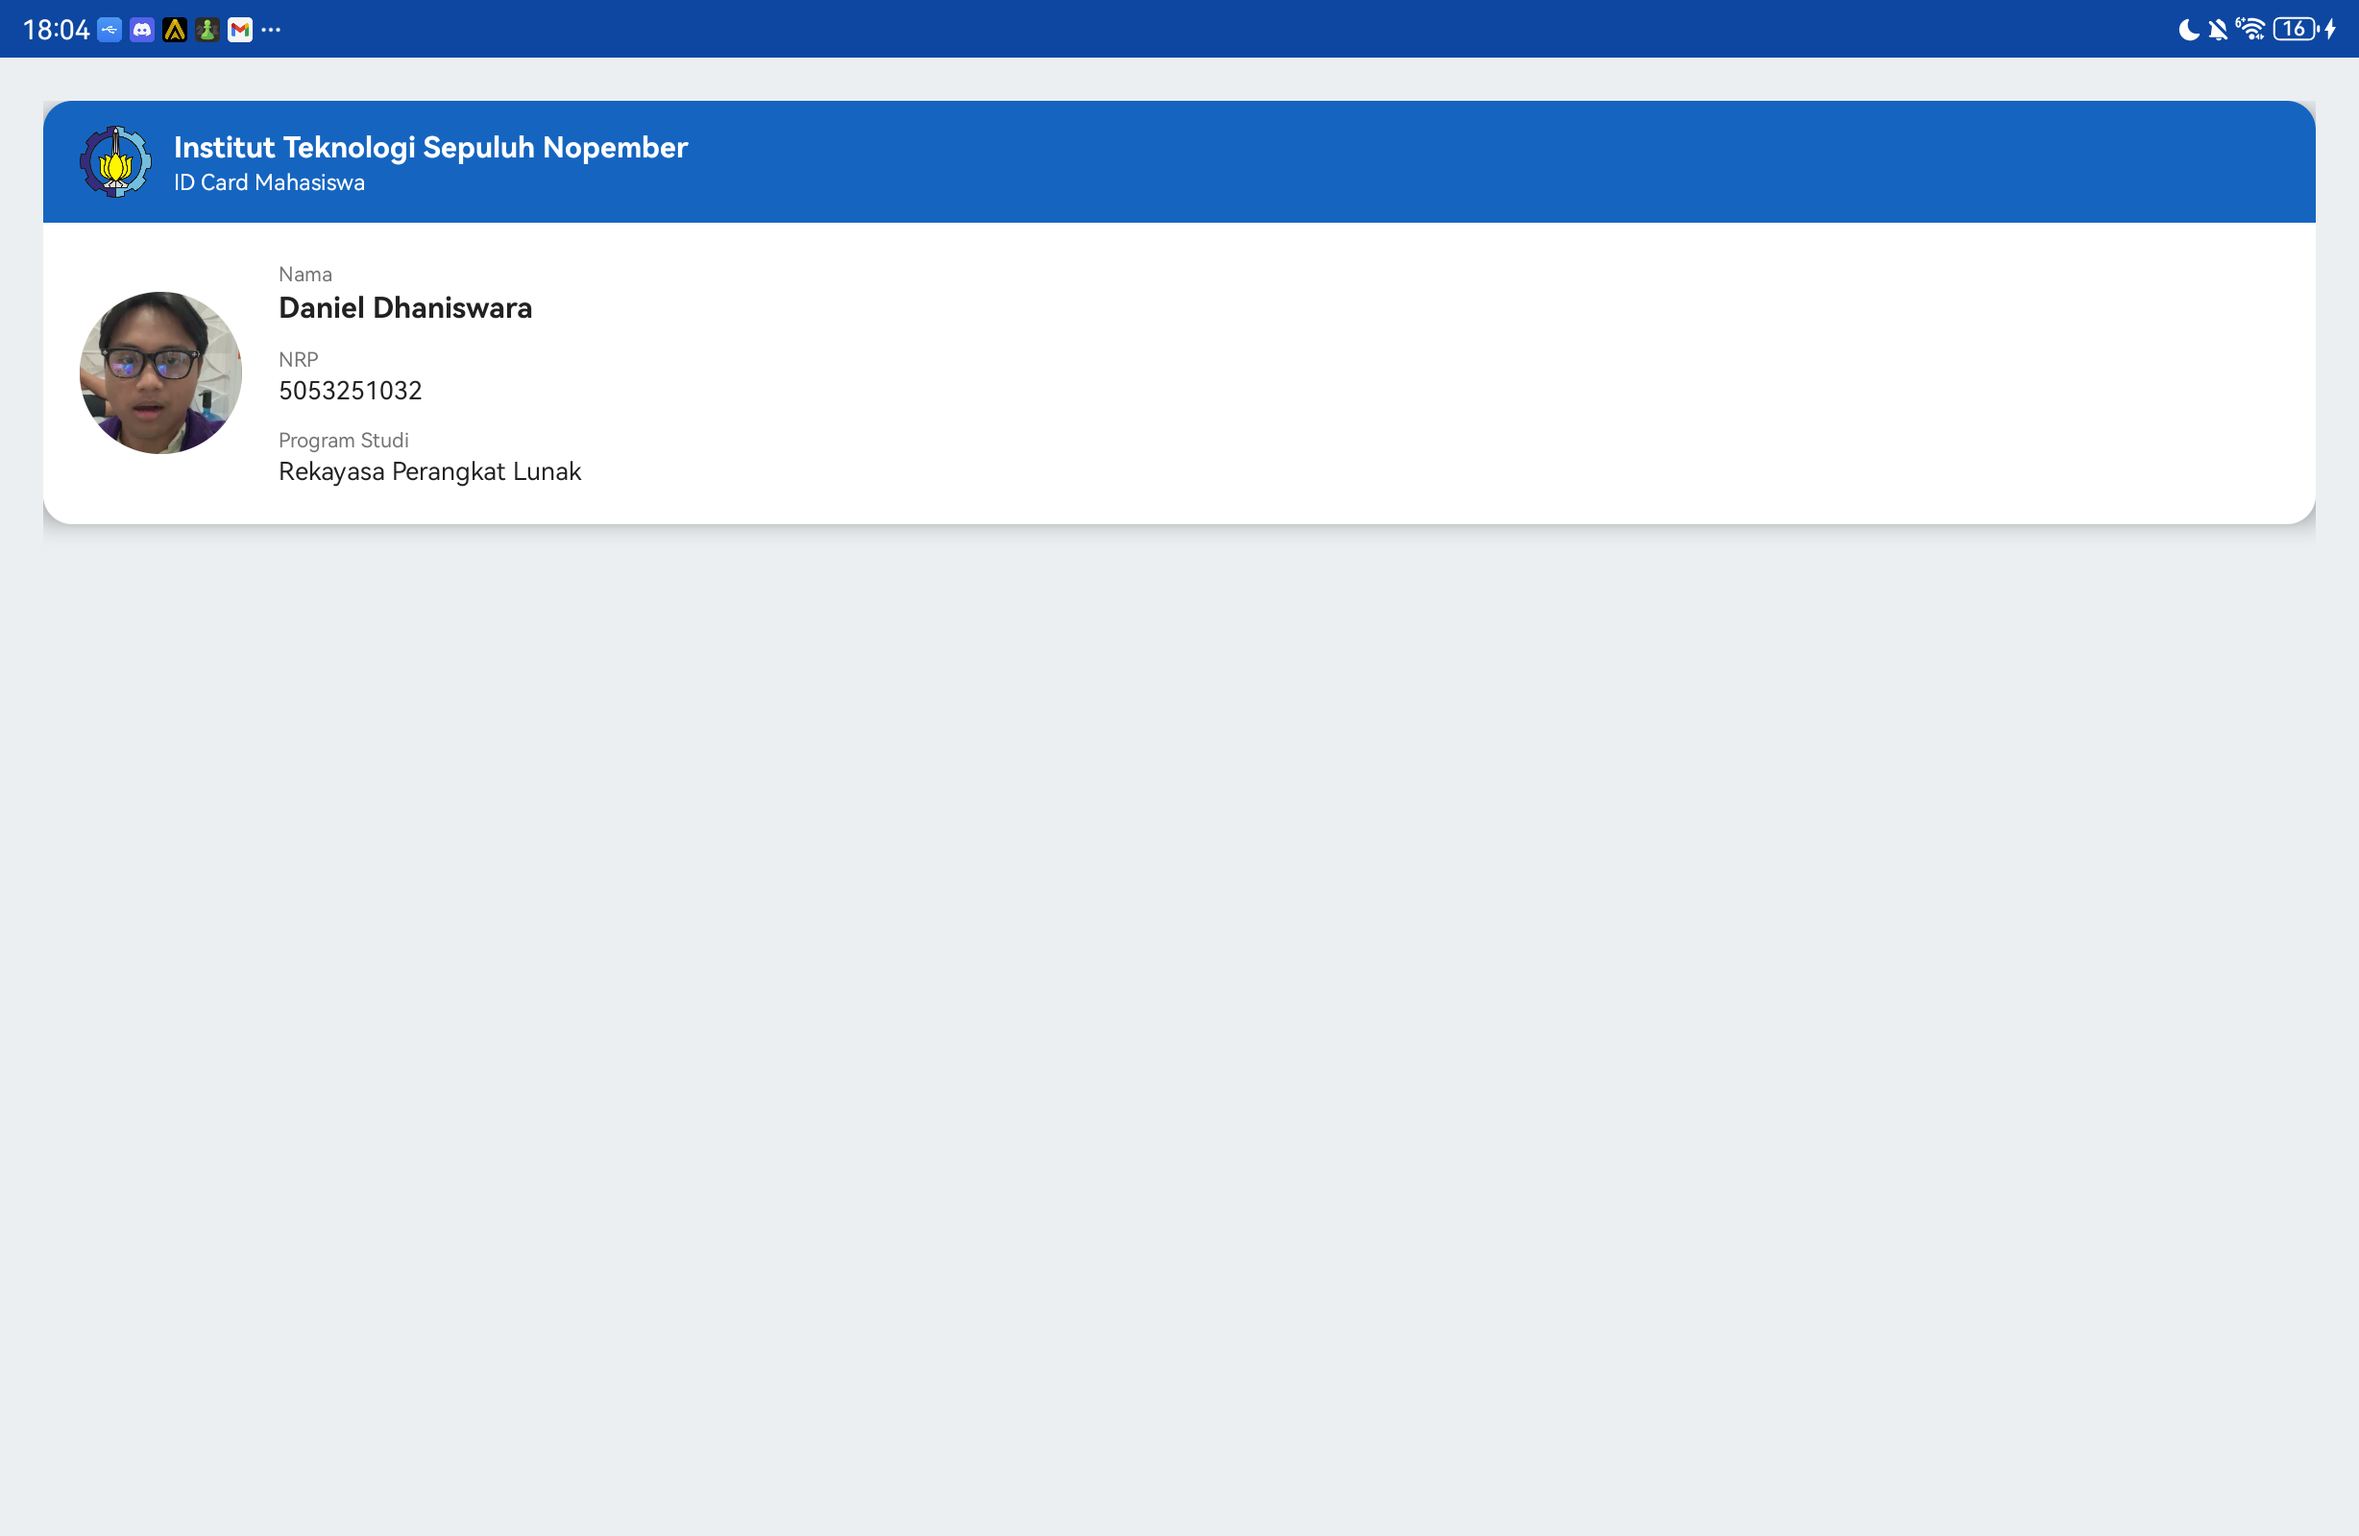
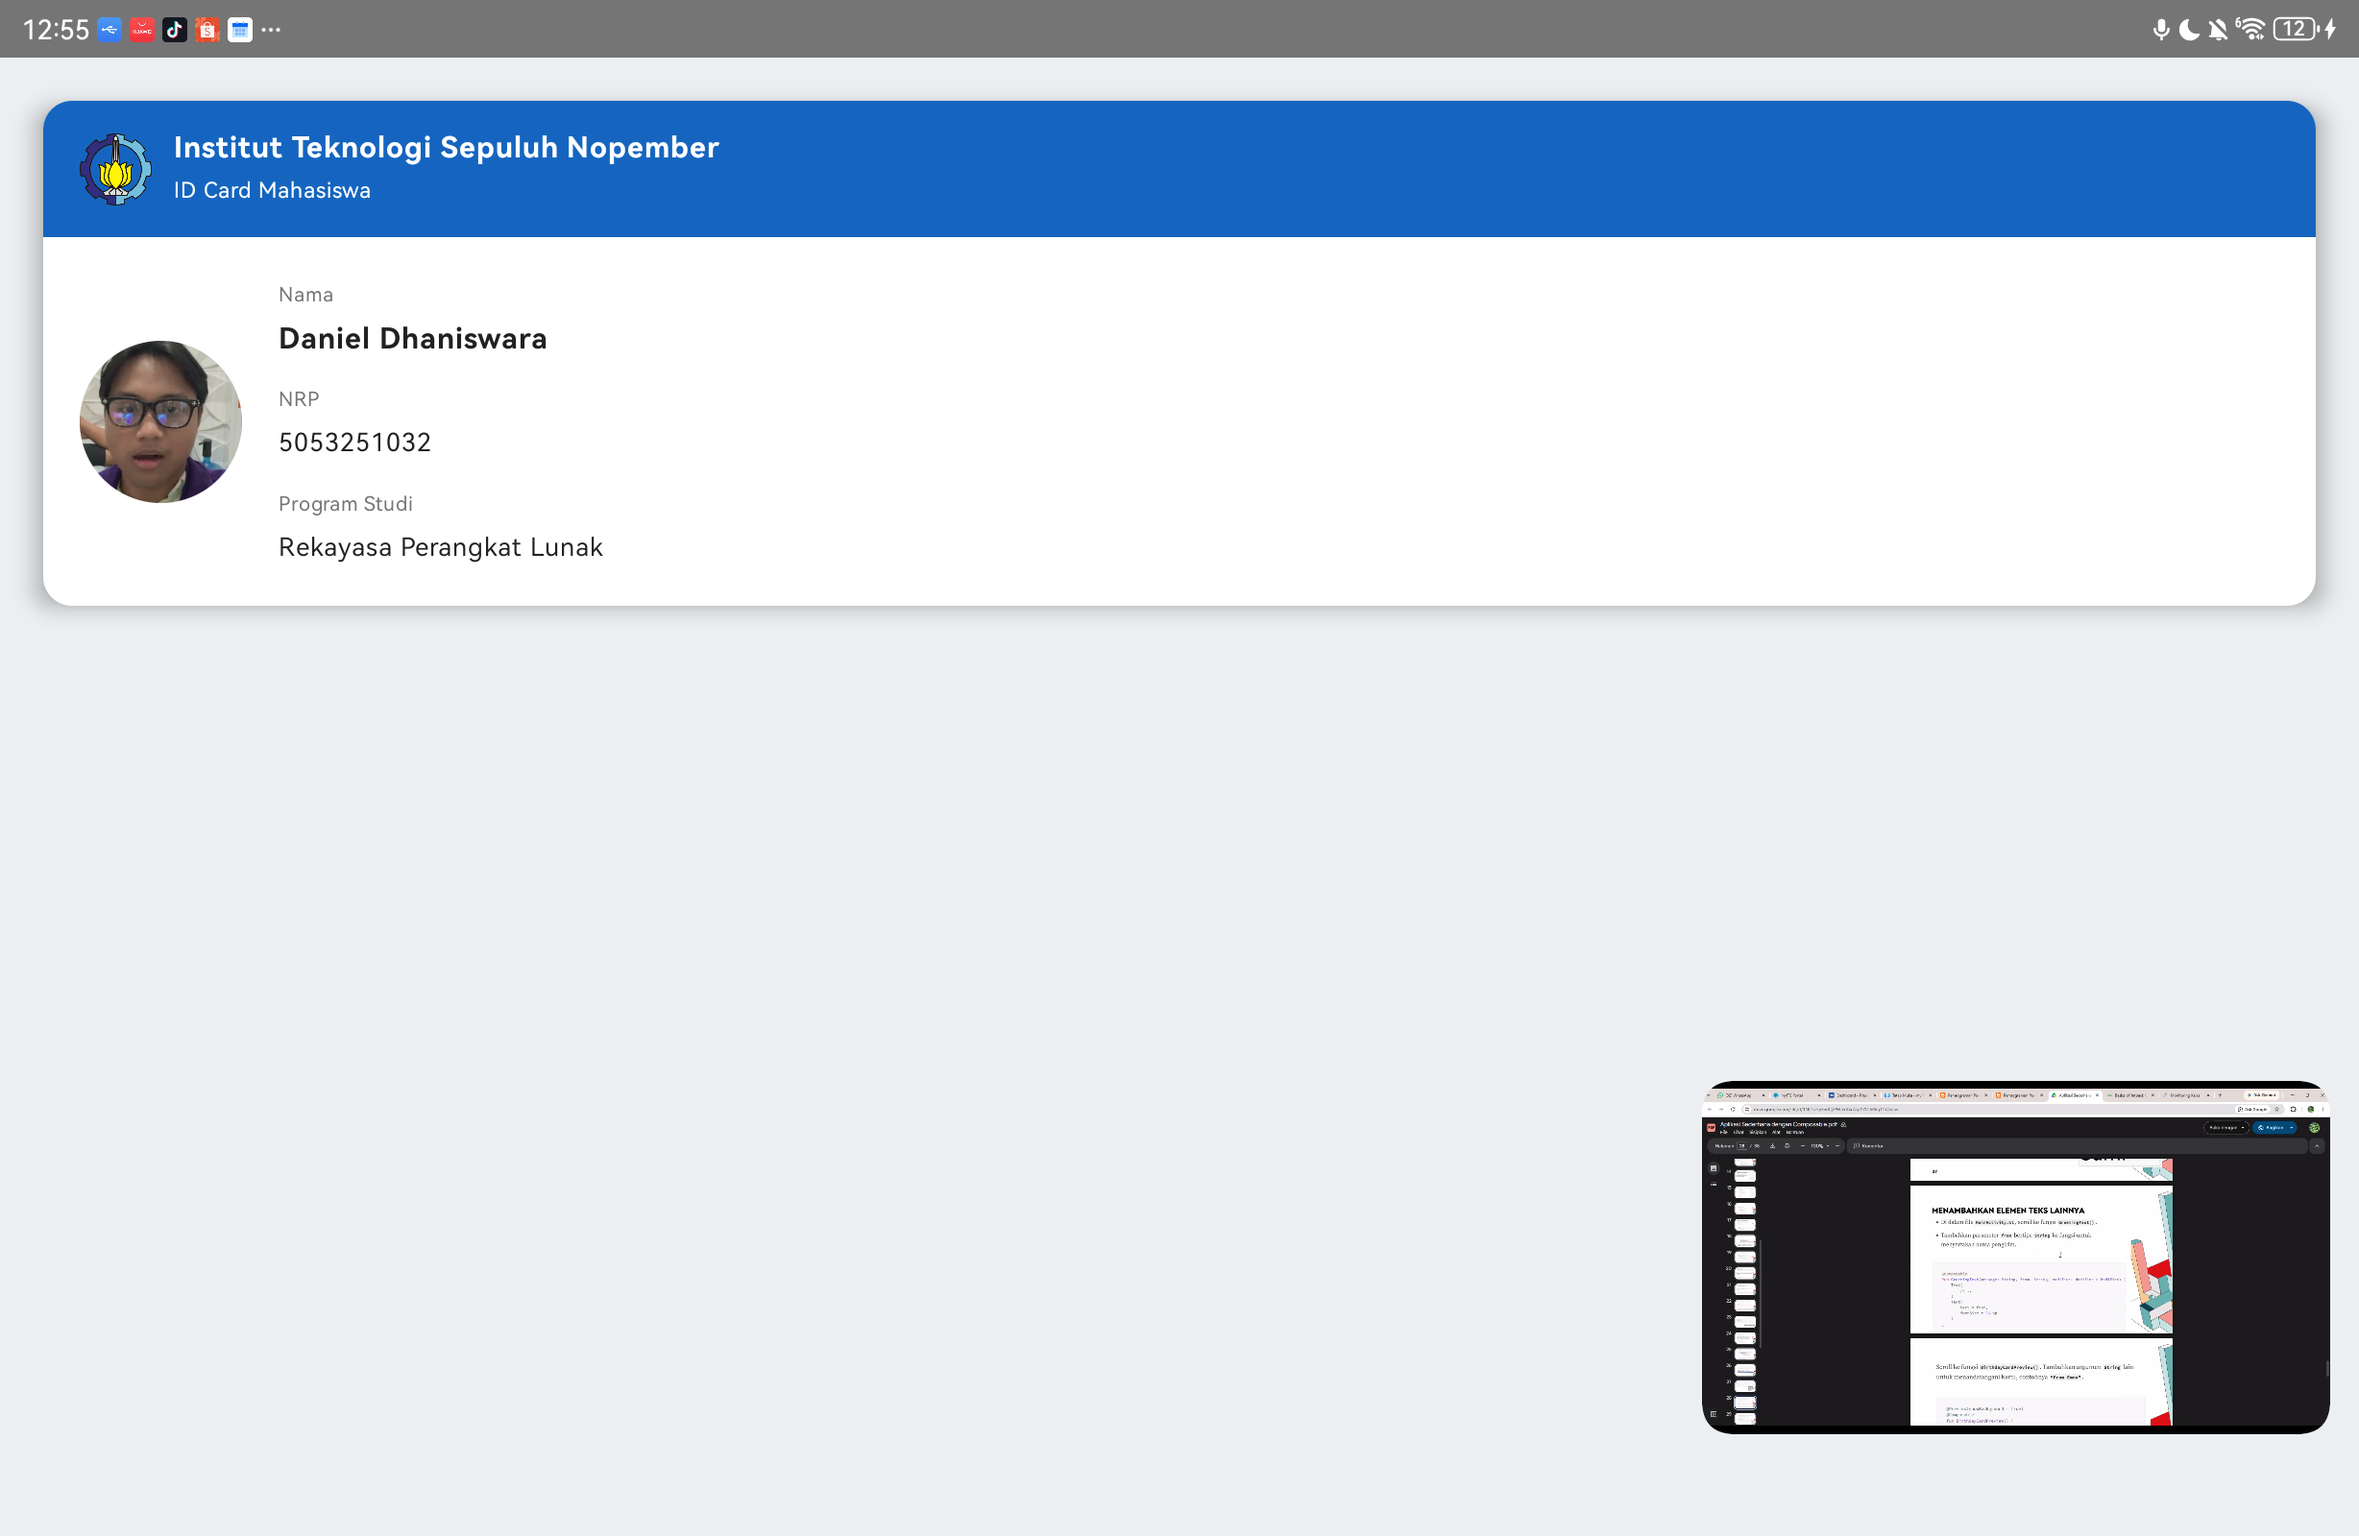
ubah pake composable

Changed region(s): [[0.0, 0.0, 1.0, 0.4062], [0.7117, 0.6875, 0.9902, 0.9375]]

diff --git a/tugas_w2 part 2/app/src/main/java/com/example/idcardmahasiswa/MainActivity.kt b/tugas_w2 part 2/app/src/main/java/com/example/idcardmahasiswa/MainActivity.kt
@@ -1,11 +1,159 @@
 package com.example.idcardmahasiswa
 
 import android.os.Bundle
-import androidx.appcompat.app.AppCompatActivity
+import androidx.activity.ComponentActivity
+import androidx.activity.compose.setContent
+import androidx.compose.foundation.Image
+import androidx.compose.foundation.background
+import androidx.compose.foundation.layout.Box
+import androidx.compose.foundation.layout.Column
+import androidx.compose.foundation.layout.Row
+import androidx.compose.foundation.layout.Spacer
+import androidx.compose.foundation.layout.fillMaxSize
+import androidx.compose.foundation.layout.fillMaxWidth
+import androidx.compose.foundation.layout.height
+import androidx.compose.foundation.layout.padding
+import androidx.compose.foundation.layout.size
+import androidx.compose.foundation.shape.CircleShape
+import androidx.compose.foundation.shape.RoundedCornerShape
+import androidx.compose.material3.Card
+import androidx.compose.material3.CardDefaults
+import androidx.compose.material3.MaterialTheme
+import androidx.compose.material3.Surface
+import androidx.compose.material3.Text
+import androidx.compose.runtime.Composable
+import androidx.compose.ui.Alignment
+import androidx.compose.ui.Modifier
+import androidx.compose.ui.draw.clip
+import androidx.compose.ui.layout.ContentScale
+import androidx.compose.ui.res.colorResource
+import androidx.compose.ui.res.painterResource
+import androidx.compose.ui.res.stringResource
+import androidx.compose.ui.text.font.FontWeight
+import androidx.compose.ui.tooling.preview.Preview
+import androidx.compose.ui.unit.TextUnit
+import androidx.compose.ui.unit.dp
+import androidx.compose.ui.unit.sp
 
-class MainActivity : AppCompatActivity() {
+class MainActivity : ComponentActivity() {
     override fun onCreate(savedInstanceState: Bundle?) {
         super.onCreate(savedInstanceState)
-        setContentView(R.layout.activity_main)
+        setContent {
+            MaterialTheme {
+                Surface(
+                    modifier = Modifier.fillMaxSize(),
+                    color = colorResource(R.color.screen_background)
+                ) {
+                    IdCardMahasiswa()
+                }
+            }
+        }
+    }
+}
+
+@Composable
+fun IdCardMahasiswa() {
+    Box(modifier = Modifier.fillMaxSize().padding(24.dp)) {
+        Card(
+            modifier = Modifier.fillMaxWidth(),
+            shape = RoundedCornerShape(16.dp),
+            colors = CardDefaults.cardColors(containerColor = colorResource(R.color.card_background)),
+            elevation = CardDefaults.cardElevation(defaultElevation = 8.dp)
+        ) {
+            Column {
+                CardHeader()
+                CardBody()
+            }
+        }
+    }
+}
+
+@Composable
+fun CardHeader() {
+    Row(
+        modifier = Modifier
+            .fillMaxWidth()
+            .background(colorResource(R.color.card_primary))
+            .padding(horizontal = 20.dp, vertical = 14.dp),
+        verticalAlignment = Alignment.CenterVertically
+    ) {
+        Image(
+            painter = painterResource(R.drawable.logo_its),
+            contentDescription = stringResource(R.string.campus_name),
+            modifier = Modifier.size(40.dp)
+        )
+        Column(modifier = Modifier.padding(start = 12.dp)) {
+            Text(
+                text = stringResource(R.string.campus_name),
+                color = colorResource(R.color.text_light),
+                fontWeight = FontWeight.Bold,
+                fontSize = 16.sp
+            )
+            Text(
+                text = stringResource(R.string.app_name),
+                color = colorResource(R.color.text_light),
+                fontSize = 12.sp
+            )
+        }
+    }
+}
+
+@Composable
+fun CardBody() {
+    Row(
+        modifier = Modifier
+            .fillMaxWidth()
+            .padding(20.dp),
+        verticalAlignment = Alignment.CenterVertically
+    ) {
+        Image(
+            painter = painterResource(R.drawable.foto_mahasiswa),
+            contentDescription = stringResource(R.string.label_nama),
+            contentScale = ContentScale.Crop,
+            modifier = Modifier
+                .size(90.dp)
+                .clip(CircleShape)
+        )
+        Column(modifier = Modifier.padding(start = 20.dp)) {
+            ProfileField(
+                label = stringResource(R.string.label_nama),
+                value = stringResource(R.string.value_nama),
+                bold = true,
+                valueSize = 16.sp
+            )
+            Spacer(modifier = Modifier.height(10.dp))
+            ProfileField(
+                label = stringResource(R.string.label_nrp),
+                value = stringResource(R.string.value_nrp),
+                valueSize = 14.sp
+            )
+            Spacer(modifier = Modifier.height(10.dp))
+            ProfileField(
+                label = stringResource(R.string.label_prodi),
+                value = stringResource(R.string.value_prodi),
+                valueSize = 14.sp
+            )
+        }
+    }
+}
+
+@Composable
+fun ProfileField(label: String, value: String, valueSize: TextUnit, bold: Boolean = false) {
+    Column {
+        Text(text = label, color = colorResource(R.color.text_muted), fontSize = 11.sp)
+        Text(
+            text = value,
+            color = colorResource(R.color.text_dark),
+            fontWeight = if (bold) FontWeight.Bold else FontWeight.Normal,
+            fontSize = valueSize
+        )
+    }
+}
+
+@Preview(showBackground = true, name = "ID Card Mahasiswa")
+@Composable
+fun IdCardMahasiswaPreview() {
+    MaterialTheme {
+        IdCardMahasiswa()
     }
 }
